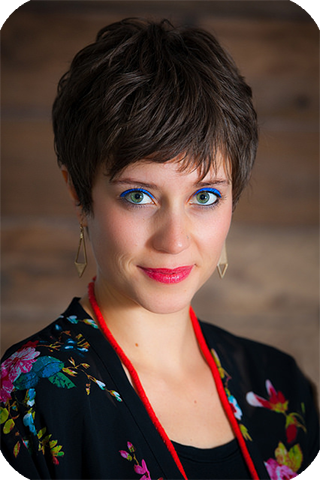
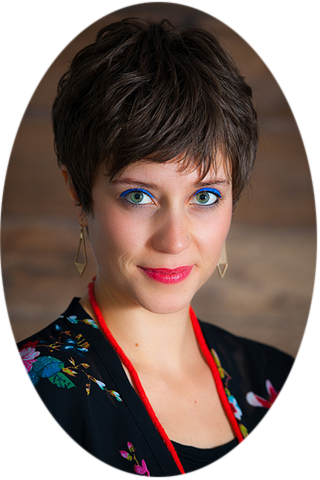
added cards

Changed region(s): [[0.0, 0.0, 1.0, 1.0]]

diff --git a/index.html b/index.html
@@ -54,24 +54,24 @@
 		<div class="container">
 			<div class="row pt-4">
 			<div class="col-4">
-			<div class="card" style="width: 18rem;">
-				<img src="portrait-3.png" class="card-img-top" alt="portrait-3">
+			<div class="card border-0" style="width: 18rem;">
+				<img src="portrait-3.jpg" class="card-img-top rounded-circle" alt="portrait-3">
 				<div class="card-body">
 					<p class="card-text">Lorem ipsum dolor sit amet, consectetur adipiscing elit. Integer et lacus dignissim, mattis sapien eu, efficitur augue. Orci varius natoque penatibus et magnis dis parturient montes, nascetur ridiculus mus. Cras ut fermentum quam. Proin id sapien nibh. Class aptent taciti sociosqu ad litora torquent per conubia nostra, per inceptos himenaeos. Sed ultrices interdum nibh, quis euismod massa mollis vel. Aenean porta justo aliquam, gravida ligula eget, bibendum lectus. </p>
 				</div>
 			</div>
 			</div>
 			<div class="col">
-			<div class="card" style="width: 18rem;">
-				<img src="portrait-2.png" class="card-img-top" alt="portrait-3">
+			<div class="card border-0" style="width: 18rem;">
+				<img src="portrait-2.jpg" class="card-img-top rounded-circle" alt="portrait-3">
 				<div class="card-body">
 					<p class="card-text">Lorem ipsum dolor sit amet, consectetur adipiscing elit. Integer et lacus dignissim, mattis sapien eu, efficitur augue. Orci varius natoque penatibus et magnis dis parturient montes, nascetur ridiculus mus. Cras ut fermentum quam. Proin id sapien nibh. Class aptent taciti sociosqu ad litora torquent per conubia nostra, per inceptos himenaeos. Sed ultrices interdum nibh, quis euismod massa mollis vel. Aenean porta justo aliquam, gravida ligula eget, bibendum lectus. </p>
 				</div>
 			</div>
 			</div>
 				<div class="col">
-					<div class="card" style="width: 18rem;">
-						<img src="portrait-1.png" class="card-img-top" alt="portrait-3">
+					<div class="card border-0" style="width: 18rem;">
+						<img src="portrait-1.jpg" class="card-img-top rounded-circle" alt="portrait-3">
 						<div class="card-body">
 							<p class="card-text">Lorem ipsum dolor sit amet, consectetur adipiscing elit. Integer et lacus dignissim, mattis sapien eu, efficitur augue. Orci varius natoque penatibus et magnis dis parturient montes, nascetur ridiculus mus. Cras ut fermentum quam. Proin id sapien nibh. Class aptent taciti sociosqu ad litora torquent per conubia nostra, per inceptos himenaeos. Sed ultrices interdum nibh, quis euismod massa mollis vel. Aenean porta justo aliquam, gravida ligula eget, bibendum lectus. </p>
 						</div>
